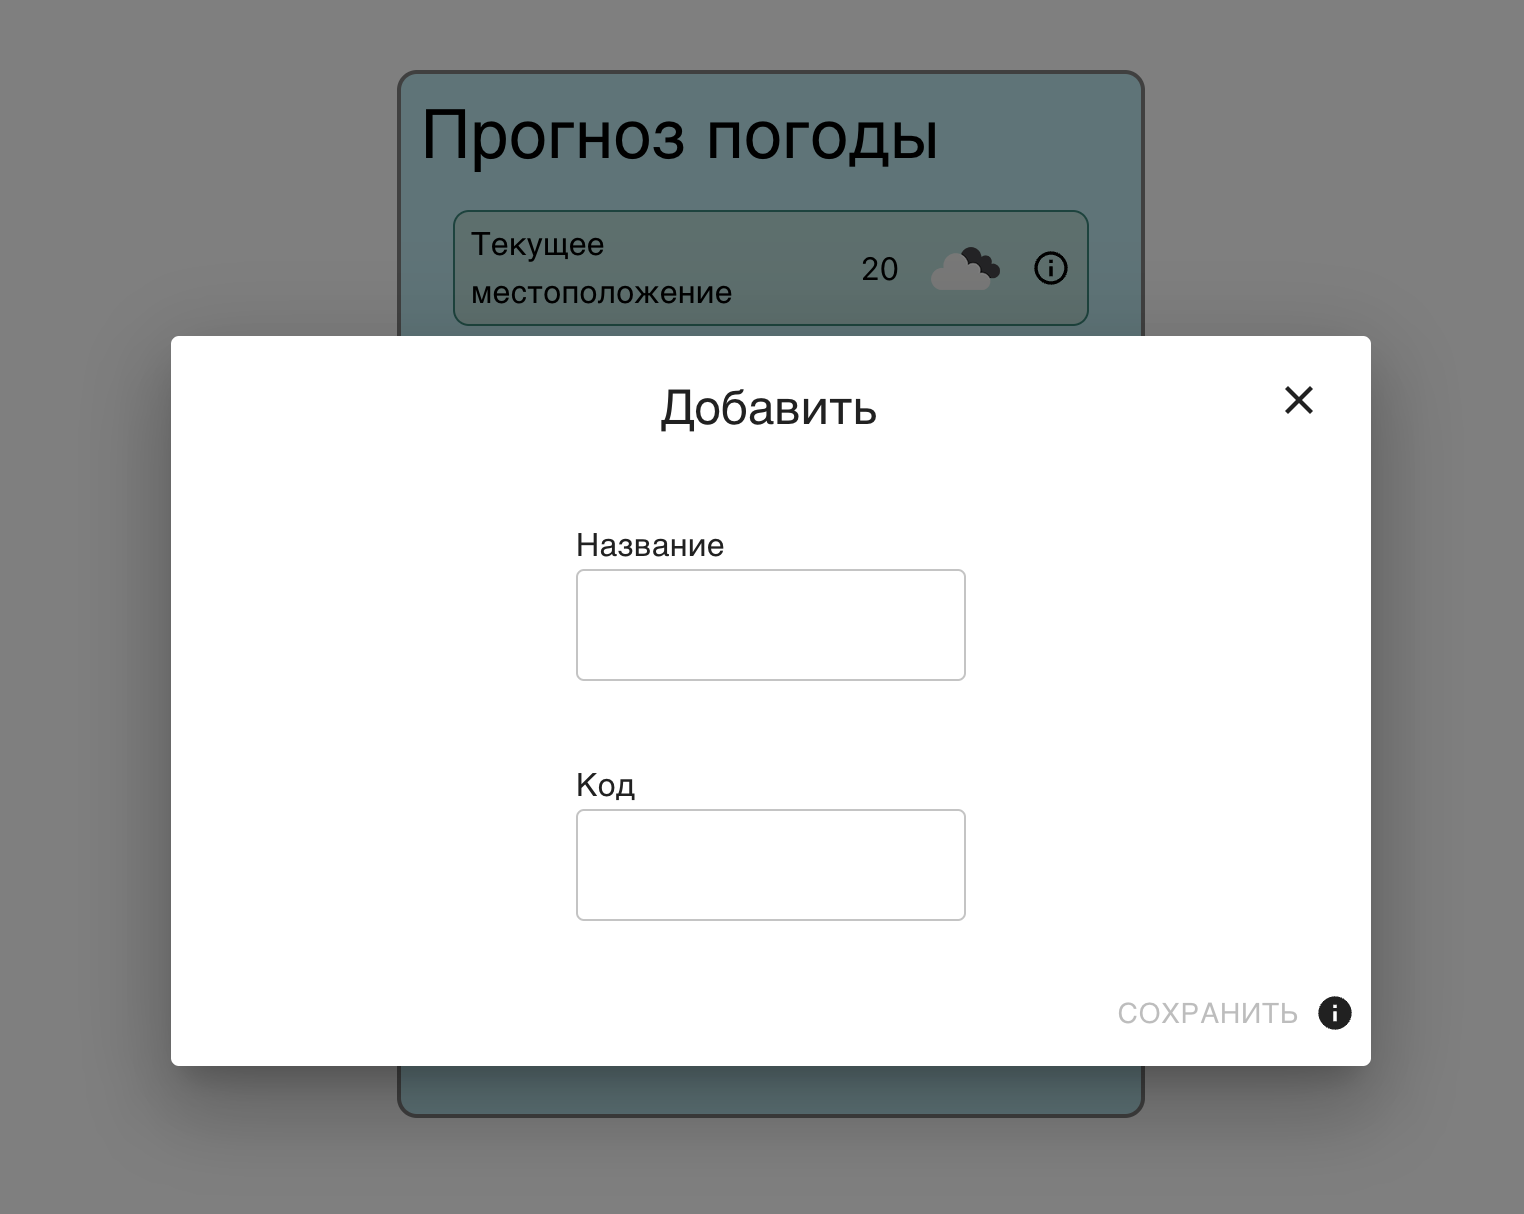
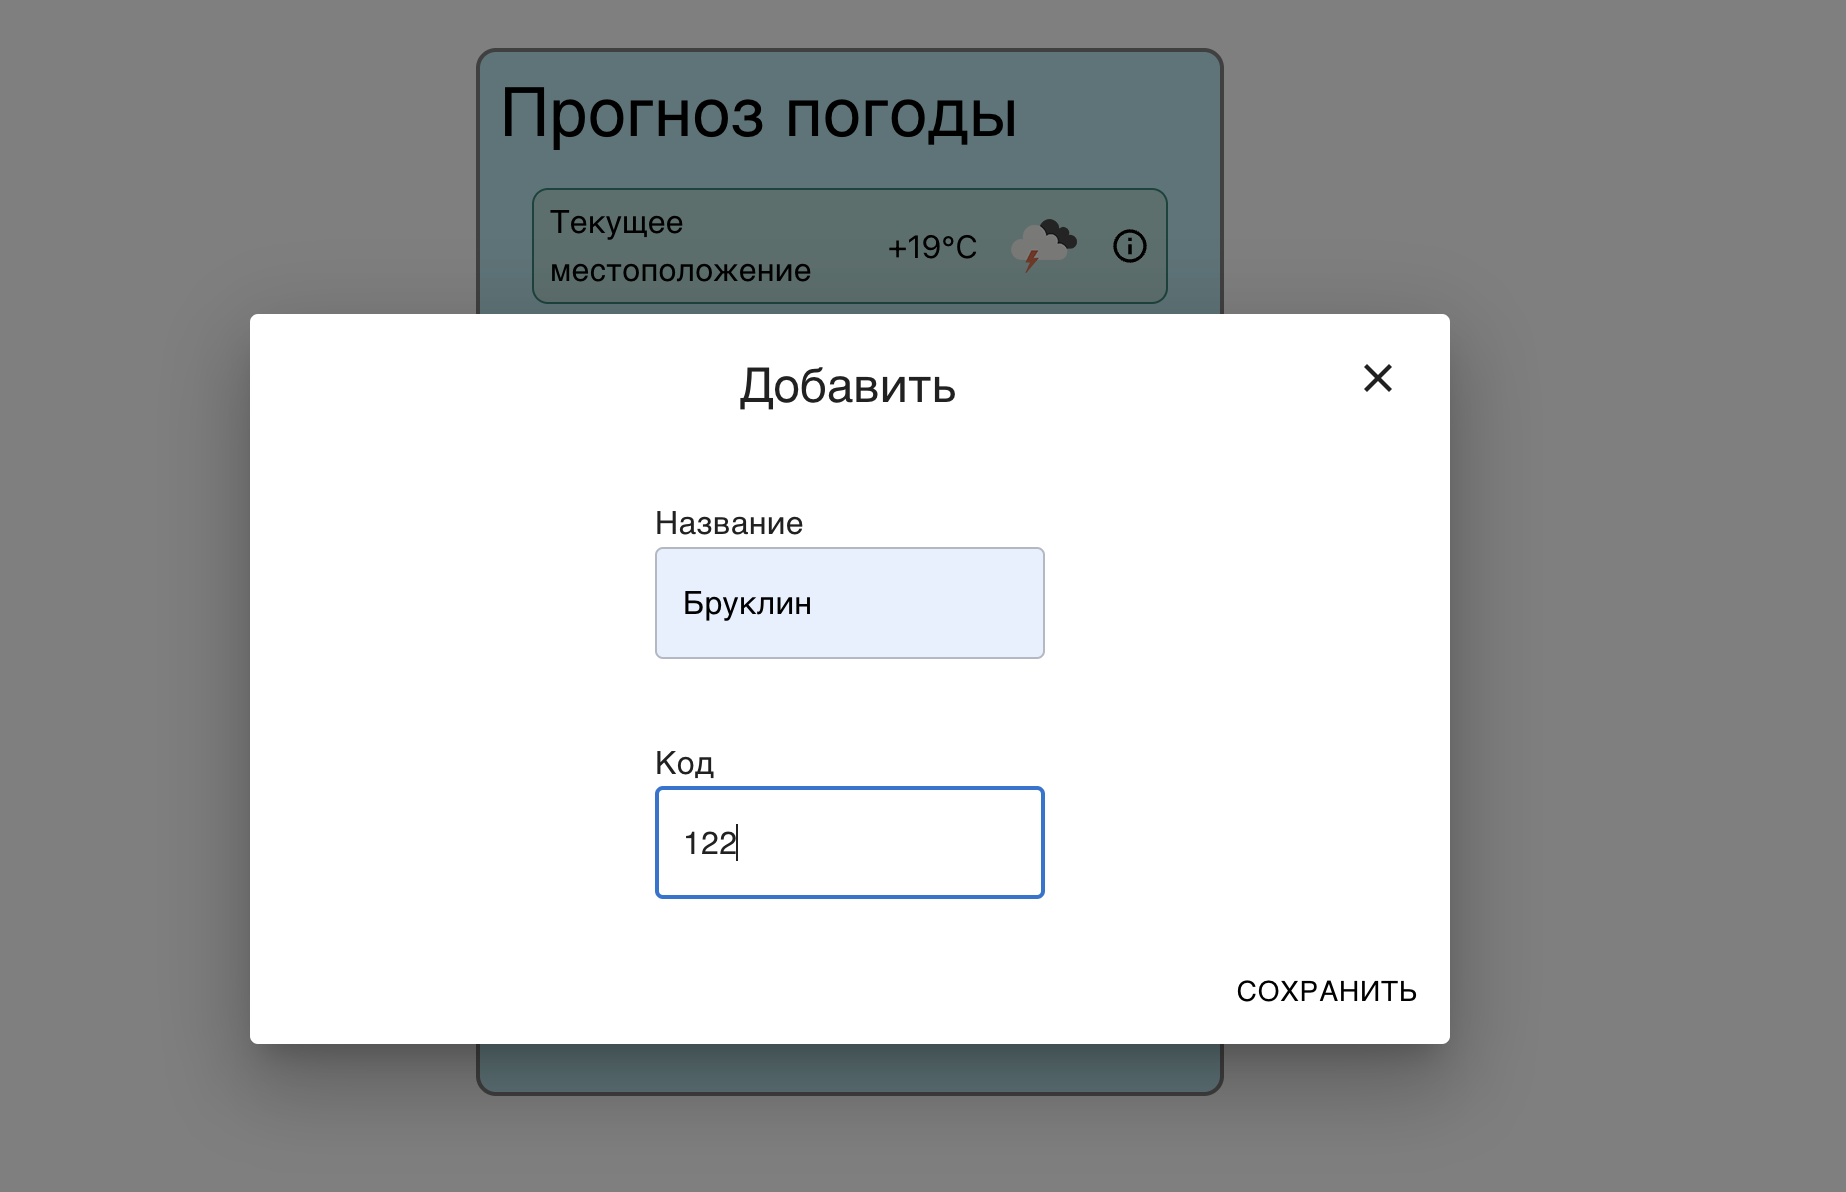
changed readme1

diff --git a/src/components/ForecastModal.jsx b/src/components/ForecastModal.jsx
@@ -39,7 +39,7 @@ export const ForecastModal = ({ isOpen, onClose, city, weatherForecast }) => {
               Сегодня({dateFormat}.{dateFormatM + 1}){' '}
             </Typography>
             <Stack direction="row" gap={1} alignItems="center">
-              {today.temp && <Stack>{tempCelsiusToday}</Stack>}
+              {today.temp && <Stack>+{tempCelsiusToday}°С</Stack>}
               {today.weather[0].icon && (
                 <>
                   <Stack width={50} height={50}>
@@ -72,7 +72,7 @@ export const ForecastModal = ({ isOpen, onClose, city, weatherForecast }) => {
               Завтра ({dateFormat + 1}.{dateFormatM + 1})
             </Typography>
             <Stack direction="row" gap={1} alignItems="center">
-              {tomorrow.temp && <Stack>{tempCelsiusTomorrow}</Stack>}
+              {tomorrow.temp && <Stack>+{tempCelsiusTomorrow}°С</Stack>}
               {tomorrow.weather[0].icon && (
                 <>
                   <Stack width={50} height={50}>

diff --git a/src/components/City.jsx b/src/components/City.jsx
@@ -43,7 +43,7 @@ export const City = ({ name, temp, onDelete, onClick, icon, description }) => {
           </Stack>
         )}
         <Stack direction="row" gap={1} alignItems="center">
-          {temp && <Stack>{tempCelsius}</Stack>}
+          {temp && <Stack>+{tempCelsius}°С</Stack>}
           {icon && (
             <>
               <Stack width={50} height={50}>
